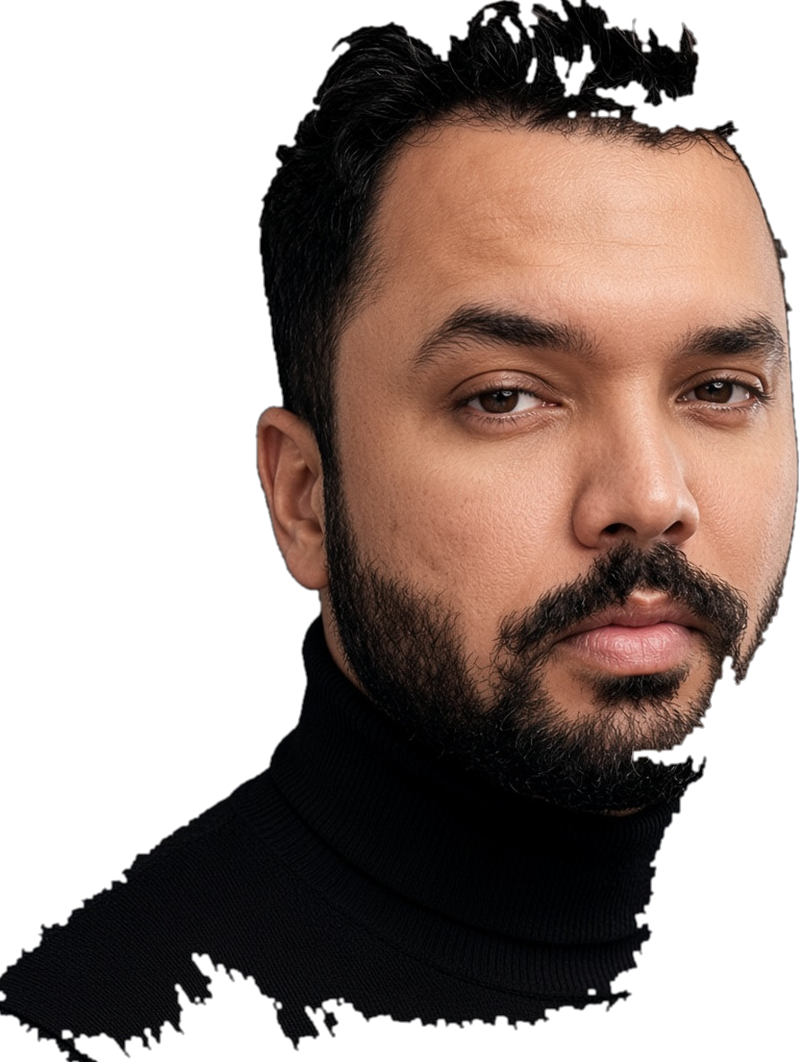
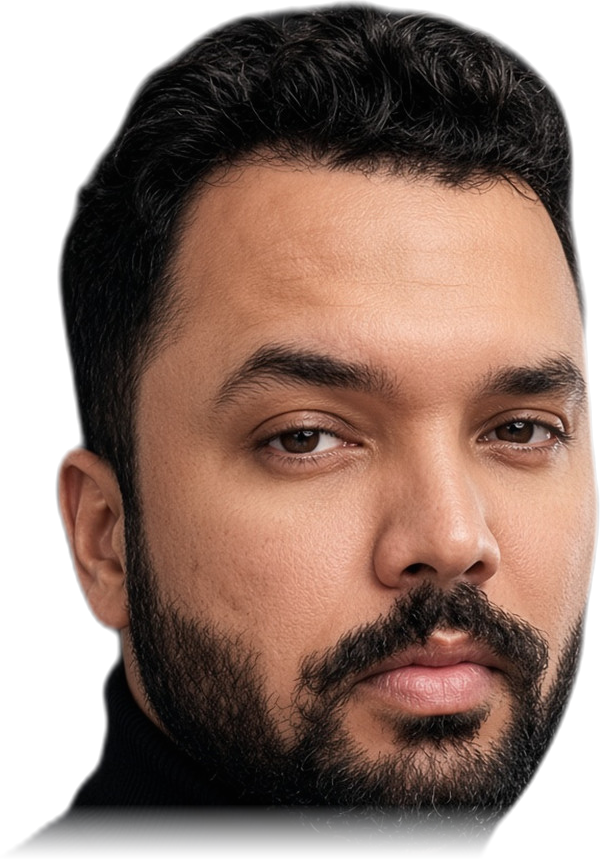
Clean the portrait cutout so the hair and shoulders stay intact.

diff --git a/index.html b/index.html
@@ -420,8 +420,8 @@
       @keyframes dotfill { from { transform: scaleX(0); } to { transform: scaleX(1); } }
       .poster-figure { position: relative; height: 100%; min-width: 0; }
       .poster-figure img {
-        position: absolute; right: 0; bottom: 0;
-        height: 96%; width: auto; max-width: 100%;
+        position: absolute; right: 0; bottom: -18%;
+        height: 122%; width: auto; max-width: none;
         object-fit: contain; object-position: right bottom;
         opacity: 0;
         transform: translate3d(10%, 0, 0);
@@ -429,6 +429,7 @@
         pointer-events: none;
       }
       .poster-figure img.on { opacity: 1; transform: none; }
+      .poster-figure img:nth-child(2) { height: 178%; bottom: auto; top: -2%; right: -4%; }
       .sr {
         position: absolute;
         width: 1px;
@@ -454,8 +455,9 @@
         }
         .poster-copy { padding: 22px 18px 8px; }
         .poster-words { font-size: 17vw; min-height: 1.7em; }
-        .poster-figure { height: 62vh; }
-        .poster-figure img { height: 112%; max-width: none; right: -6%; }
+        .poster-figure { height: 58vh; }
+        .poster-figure img { height: 128%; bottom: -20%; max-width: none; right: 0; }
+        .poster-figure img:nth-child(2) { height: 188%; top: -6%; bottom: auto; right: -10%; }
         .chapters { grid-template-columns: 1fr 1fr; }
       }
       @media (prefers-reduced-motion: reduce) {
@@ -599,8 +601,8 @@
           </div>
         </div>
         <div class="poster-figure">
-          <img class="on" src="./assets/rajiv-cut.png" alt="Rajiv Buda" width="799" height="1062" fetchpriority="high" />
-          <img src="./assets/rajiv-cut-close.png" alt="" width="543" height="658" />
+          <img class="on" src="./assets/rajiv-cut.png" alt="Rajiv Buda" width="608" height="860" fetchpriority="high" />
+          <img src="./assets/rajiv-cut.png" alt="" width="608" height="860" />
         </div>
       </section>
       <nav class="chapters" aria-label="Chapters">
